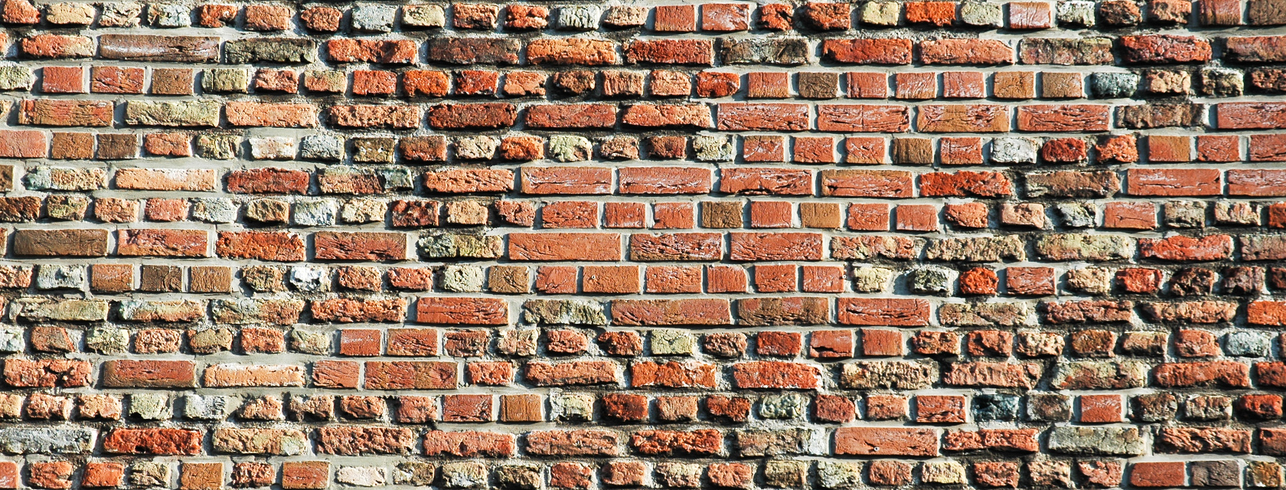
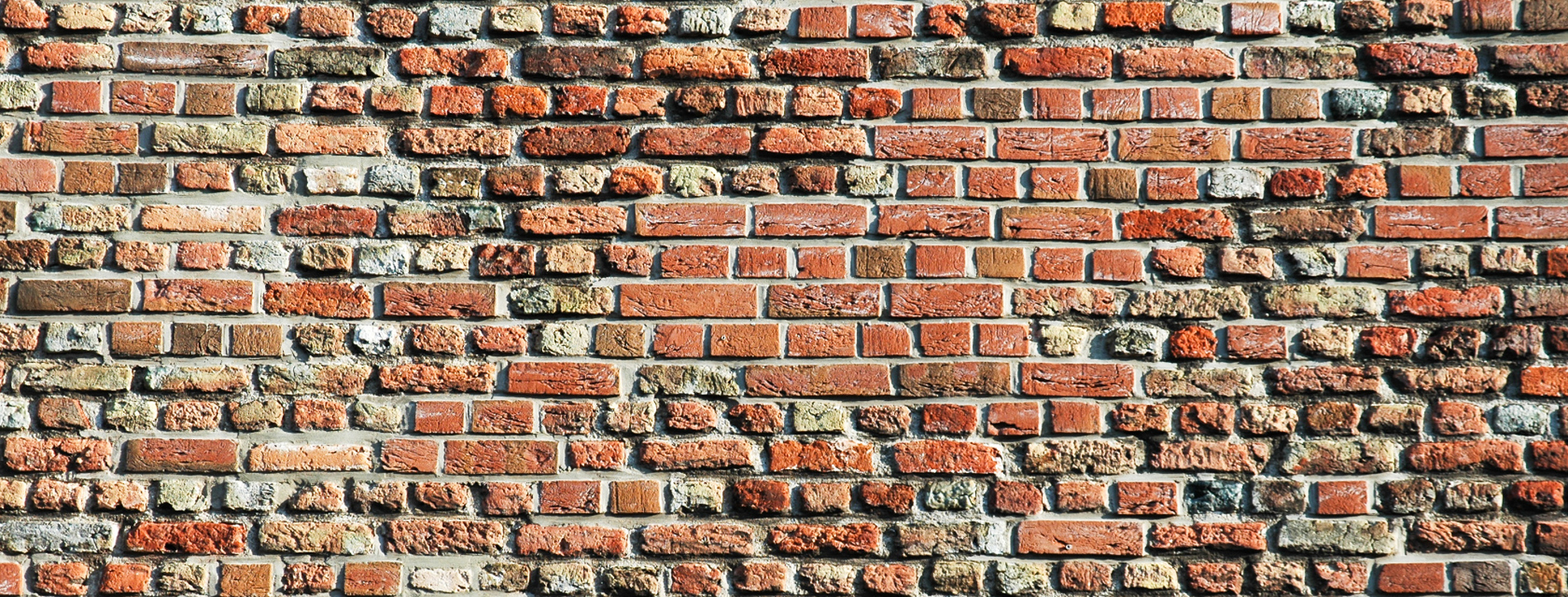
header background stying

diff --git a/assets/css/style.scss b/assets/css/style.scss
@@ -5,7 +5,9 @@
 
 .mason .page-header {
   background-color: #99153f;
-  background-image: linear-gradient(120deg, #99153f, #997315); 
+  background-image: linear-gradient(120deg, rgba(163,21,63,0.83),rgba(153,97,39,0.97)), url("../img/red-brick-wall.jpeg");
+  background-repeat: no-repeat;
+  background-position: center;
 }
 
 .mason .main-content h1, .main-content h2, .main-content h3, .main-content h4, .main-content h5, .main-content h6 {
